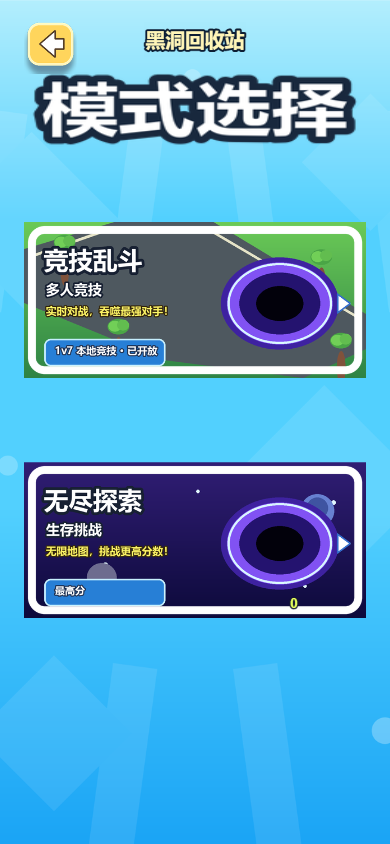
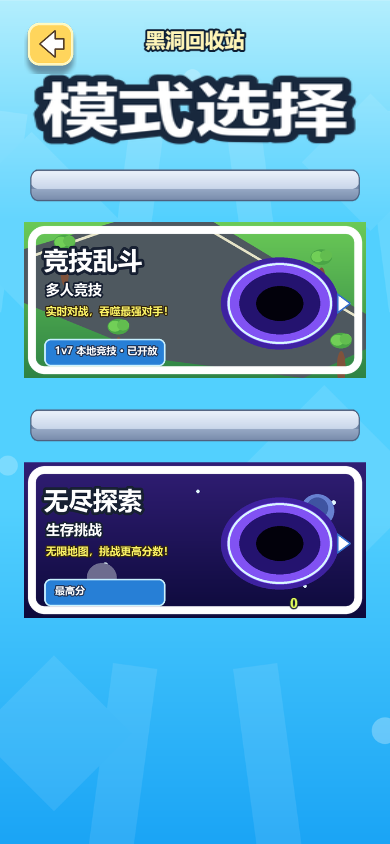
fix(mode): give the mode cards the plinth the reference shows under them
The adopted Mode Select reference puts a thick 3D plinth under every card, and it
is the most distinctive structural element of that layout. This build had none --
but not because nobody built it. `ShelfArena` and `ShelfEndless` are authored,
positioned under the cards, active, and pinned by MODE_SELECT_LAYOUT; they were
hidden at runtime because `mode_card_shelf.png` was a blank white capsule with no
9-slice borders, and two floating white bars are what the V6 brief forbids by name
("empty sprite bar", "placeholder rectangle"). Sampling the old sprite confirms it:
a transparent capsule with a (233,241,255) middle and a soft shadow.

So the fix is to author the art, not to re-enable a placeholder.
`art-source/vector/generate_card_plinth.py` draws a real plinth at the same path --
a light top face over a distinctly darker front face, rounded ends, an outline --
so the scene's spriteFrame reference keeps resolving, and
`mode_card_shelf.png.meta` now carries 16 px horizontal 9-slice borders and
`packable: false`. The controller no longer hides the shelves.

Showing it again needed two corrections, both found by measuring rather than by
trusting the table:

  * Width: authored 600 design px against a ~576 design px visible width, it
    overflowed by 2.8 screen px per side. It is now narrowed to the fitted card
    width less a small inset -- width only, because a slab's thickness must not
    scale with it.
[…]

Changed region(s): [[0.0615, 0.1848, 0.9231, 0.2464], [0.0615, 0.4621, 0.9231, 0.5237]]

diff --git a/cocos/assets/scripts/ui/ModeSelectPageController.ts b/cocos/assets/scripts/ui/ModeSelectPageController.ts
@@ -33,6 +33,13 @@ export const MODE_SELECT_LAYOUT = {
 
 /** The two playable mode cards, which are wider than a 20:9 frame can show. */
 const MODE_CARD_NODES: readonly (keyof typeof MODE_SELECT_LAYOUT)[] = ['BtnArena', 'BtnEndless'];
+/** Decorative plinths: [shelf, the card it belongs under]. */
+const MODE_SHELF_PAIRS: readonly (readonly [keyof typeof MODE_SELECT_LAYOUT, keyof typeof MODE_SELECT_LAYOUT])[] = [
+  ['ShelfArena', 'BtnArena'],
+  ['ShelfEndless', 'BtnEndless'],
+];
+/** How far the card's bottom edge sits down over the plinth, in design px. */
+const PLINTH_OVERLAP = 10;
 
 @ccclass('ModeSelectPageController')
 export class ModeSelectPageController extends Component {
@@ -93,6 +100,29 @@ export class ModeSelectPageController extends Component {
     for (const cardName of MODE_CARD_NODES) {
       const [width, height, x] = MODE_SELECT_LAYOUT[cardName];
       fitNodeIntoSafeSpan(this.findNode(cardName), x, width, height, safeHalfWidth);
+    }
+
+    // The plinth is authored 600 design px against the same ~576 design px visible
+    // width, so on its own it overflows the frame by about 2.8 screen px per side.
+    // Narrow it to the card it sits under, less a small inset: the reference shows
+    // a plinth slightly narrower than its card, and this keeps it inside the frame
+    // at every aspect. Width only -- a slab's thickness must not scale with it.
+    // Positioned from the card rather than from MODE_SELECT_LAYOUT: measured at
+    // runtime, the authored shelf y put the plinth *above* its card (screen y
+    // 168.8 against the card's 222.1) when the reference clearly has the card
+    // sitting on the shelf. Deriving it here cannot drift from the card again.
+    for (const [shelfName, cardName] of MODE_SHELF_PAIRS) {
+      const card = this.findNode(cardName);
+      const shelf = this.findNode(shelfName);
+      const cardTransform = card?.getComponent(UITransform);
+      const shelfTransform = shelf?.getComponent(UITransform);
+      if (!card || !shelf || !cardTransform || !shelfTransform) continue;
+      shelfTransform.setContentSize(cardTransform.width - 16, shelfTransform.height);
+      shelf.setPosition(
+        0,
+        card.position.y - cardTransform.height / 2 - shelfTransform.height / 2 + PLINTH_OVERLAP,
+        0,
+      );
     }
   }
 
@@ -164,18 +194,15 @@ export class ModeSelectPageController extends Component {
     // exists to display, so the blue badge strip must not appear on the mode card.
     const availBadge = this.findNode('ArenaAvailability');
     if (availBadge) availBadge.active = false;
-    // ShelfArena / ShelfEndless carry mode_card_shelf.png, which is an empty
-    // white capsule bar with no content of its own. In the portrait frame they
-    // read as two blank white sprite bars floating between the title and the
-    // mode cards, which the V6 brief forbids by name ("empty sprite bar",
-    // "placeholder rectangle"). The mode cards already frame themselves, so the
-    // decorative shelves are pure residue. They stay in MODE_SELECT_LAYOUT so
-    // the layout contract keeps asserting their authored geometry; only their
-    // visibility is suppressed here.
-    for (const emptyShelf of ['ShelfArena', 'ShelfEndless']) {
-      const shelf = this.findNode(emptyShelf);
-      if (shelf) shelf.active = false;
-    }
+    // ShelfArena / ShelfEndless were hidden because `mode_card_shelf.png` was a
+    // blank white capsule with no 9-slice borders, and two floating white bars are
+    // what the V6 brief forbids by name ("empty sprite bar", "placeholder
+    // rectangle"). The placeholder has since been replaced with real plinth art --
+    // a light top face over a darker front face, drawn by
+    // `art-source/vector/generate_card_plinth.py` -- which is the element the
+    // adopted Mode Select reference puts under every card. So the shelves are
+    // shown again, and `mode_card_shelf.png.meta` now carries 16 px horizontal
+    // 9-slice borders so a stretched card keeps square ends.
   }
 }
 

diff --git a/art-source/vector/generate_card_plinth.py b/art-source/vector/generate_card_plinth.py
@@ -1,0 +1,95 @@
+"""Author the mode-card plinth that the adopted reference shows under each card.
+
+`textures/home/mode_card_shelf.png` was a blank white capsule with a soft shadow
+and no 9-slice borders. `ModeSelectPageController` hides both shelf nodes because
+that placeholder read as two floating white bars, which the V6 brief forbids by
+name ("empty sprite bar", "placeholder rectangle"). The reference
+(`v2-02-mode-select.png`) puts a real 3D plinth under every card, and it is the
+most distinctive structural element of that layout.
+
+So the placeholder is replaced with real art at the same path: the scene's
+spriteFrame reference keeps resolving, and the shelves can be shown again.
+
+The shape is a light top face, a distinctly darker front face for the slab's
+thickness, and a contact shadow under it. Drawn at 600x52 -- the authored node
+size -- with 9-slice borders so a stretched card keeps square ends.
+
+Run: python art-source/vector/generate_card_plinth.py
+"""
+import os
+
+from PIL import Image, ImageDraw
+
+REPO = os.path.dirname(os.path.dirname(os.path.dirname(os.path.abspath(__file__))))
+TARGET = os.path.join(REPO, 'cocos', 'assets', 'textures', 'home', 'mode_card_shelf.png')
+
+W, H = 600, 52
+SS = 4  # supersample, then downscale
+
+TOP_FACE_HI = (238, 244, 252)
+TOP_FACE_LO = (200, 213, 233)
+FRONT_FACE_HI = (150, 168, 196)
+FRONT_FACE_LO = (118, 138, 170)
+OUTLINE = (74, 90, 120)
+SHADOW = (38, 50, 76, 96)
+
+END_RADIUS = 14
+TOP_FACE_BOTTOM = 30
+FRONT_FACE_BOTTOM = 48
+
+
+def rounded(draw, box, radius, fill):
+    draw.rounded_rectangle(box, radius=radius, fill=fill)
+
+
+def main():
+    w, h = W * SS, H * SS
+    image = Image.new('RGBA', (w, h), (0, 0, 0, 0))
+    draw = ImageDraw.Draw(image)
+
+    inset = 2 * SS
+    # Contact shadow, offset down so the slab reads as sitting on the field.
+    rounded(draw, (inset, 6 * SS, w - inset, h - 1 * SS), END_RADIUS * SS, SHADOW)
+
+    # The slab itself: top face, then the darker front face below it.
+    rounded(draw, (inset, 1 * SS, w - inset, TOP_FACE_BOTTOM * SS), END_RADIUS * SS, TOP_FACE_LO)
+    rounded(draw, (inset, 1 * SS, w - inset, FRONT_FACE_BOTTOM * SS), END_RADIUS * SS, FRONT_FACE_LO)
+
+    # Vertical ramps, clipped to each face by drawing into a mask.
+    for box, top, bottom in (
+        ((inset, 1 * SS, w - inset, TOP_FACE_BOTTOM * SS), TOP_FACE_HI, TOP_FACE_LO),
+        ((inset, TOP_FACE_BOTTOM * SS, w - inset, FRONT_FACE_BOTTOM * SS), FRONT_FACE_HI, FRONT_FACE_LO),
+    ):
+        x0, y0, x1, y1 = box
+        height = max(1, y1 - y0)
+        band = Image.new('RGBA', (x1 - x0, height))
+        band_draw = ImageDraw.Draw(band)
+        for y in range(height):
+            t = y / max(1, height - 1)
+            colour = tuple(round(top[i] + (bottom[i] - top[i]) * t) for i in range(3)) + (255,)
+            band_draw.line([(0, y), (x1 - x0, y)], fill=colour)
+        mask = Image.new('L', (x1 - x0, height), 0)
+        ImageDraw.Draw(mask).rounded_rectangle(
+            (0, 0, x1 - x0 - 1, height - 1),
+            radius=END_RADIUS * SS if y1 == TOP_FACE_BOTTOM * SS else 0,
+            fill=255)
+        image.paste(band, (x0, y0), mask)
+
+    # Re-clip the front face to the slab's rounded outline so it cannot square the ends.
+    slab = Image.new('L', (w, h), 0)
+    ImageDraw.Draw(slab).rounded_rectangle(
+        (inset, 1 * SS, w - inset, FRONT_FACE_BOTTOM * SS), radius=END_RADIUS * SS, fill=255)
+    image.putalpha(Image.composite(image.getchannel('A'), Image.new('L', (w, h), 0), slab))
+
+    # Outline last, so it sits over both faces.
+    draw.rounded_rectangle(
+        (inset, 1 * SS, w - inset, FRONT_FACE_BOTTOM * SS),
+        radius=END_RADIUS * SS, outline=OUTLINE, width=2 * SS)
+
+    image = image.resize((W, H), Image.LANCZOS)
+    image.save(TARGET)
+    print(f'wrote {os.path.relpath(TARGET, REPO)} ({W}x{H})')
+
+
+if __name__ == '__main__':
+    main()

diff --git a/cocos/docs/UI_VISUAL_REAUDIT.md b/cocos/docs/UI_VISUAL_REAUDIT.md
@@ -26,16 +26,59 @@ Reference `v2-02-mode-select.png` vs shipped `mode-390x844.png`.
 | Title | huge white outlined display type, centred | same treatment, centred | **matches** |
 | Back button | yellow rounded square, top-left | present, same treatment | **matches** |
 | Session pill | dark pill with a lightning icon, a count and a `00:38` timer | **absent** | **difference** |
-| Card frame | white outer frame **plus a thick 3D plinth/shelf under each card** | white frame only, cards sit flat on the field | **difference — the reference's most distinctive structural element** |
+| Card frame | white outer frame **plus a thick 3D plinth/shelf under each card** | white frame only, cards sat flat on the field | **difference — FIXED, see below** |
 | Card interior | fully illustrated scene: roads, trees, cars, buildings / planets / machines / trophy | a road strip, a grass band and a flat vortex | **difference — much sparser than the reference** |
 | Card title / subtitle / sell line / badge | white outlined title, subtitle, yellow sell line, blue badge pill bottom-left | all present with the same hierarchy | **matches** |
 | Black-hole art in the card | vivid purple-blue swirl with a bright rim, large and prominent | flat purple ellipse with a thin white ring | **difference — noticeably flatter** |
 | Locked-card treatment | padlock over the interior | not applicable (this product has two real modes, no locked legacy cards) | correct per the canon's forbidden list |
 
-Three real differences, in descending order of visual impact: **the missing card
-plinth**, **the sparse card interiors**, and **the flat vortex art**. The session
-pill is the smallest and is arguably a product decision (this game has no timed
-session or energy), so it is listed rather than queued.
+### The plinth: my first read of it was wrong, and the truth was better
+
+I first wrote this up as "the plinth is missing". It is not. `ShelfArena` and
+`ShelfEndless` are authored in the scene, positioned under each card, active, and
+referenced by `MODE_SELECT_LAYOUT` so the layout contract keeps asserting their
+geometry. They were **hidden at runtime on purpose**, and the reason is in the
+controller:
+
+> `mode_card_shelf.png` … is an empty white capsule bar with no content of its own.
+> In the portrait frame they read as two blank white sprite bars floating between
+> the title and the mode cards, which the V6 brief forbids by name ("empty sprite
+> bar", "placeholder rectangle").
+
+So the real finding is not "a missing element" but **a placeholder that was
+correctly suppressed** — and the fix is therefore to author the art, not to
+re-enable a blank bar. Sampling the old sprite confirms the description: a
+transparent capsule with a `(233,241,255)` middle and a soft shadow, no 9-slice
+borders.
+
+**Fixed.** `art-source/vector/generate_card_plinth.py` draws a real plinth at the
+same path — a light top face over a distinctly darker front face, rounded ends and
+an outline — so the scene's spriteFrame reference keeps resolving and the shelves
+can be shown again. `mode_card_shelf.png.meta` now carries 16 px horizontal 9-slice
+borders and `packable: false`.
+
+Showing it again needed two corrections, both found by measuring rather than by
+trusting the table:
+
+1. **Width.** The plinth is authored 600 design px against a ~576 design px visible
+   width, so it overflowed the frame by 2.8 screen px per side. The controller now
+   narrows it to the fitted card width less a small inset — the reference shows a
+   plinth slightly narrower than its card — **width only, because a slab's thickness
+   must not scale with it**. Measured: `ShelfArena` 502.7 design px inside
+   `BtnArena`'s 518.7.
+2. **Position.** With the authored y it rendered *above* its card — screen y 168.8
+   against the card's 222.1 — where the reference clearly has the card sitting on
+   the shelf. The shelf's y is now derived from the card it belongs to
+   (`card.y - cardHeight/2 - shelfHeight/2 + 10`), which cannot drift from the card
+   again. Measured after: `ShelfArena` 371.4..405.6 under `BtnArena`'s 222.1..377.9,
+   **zero clipped nodes** at 390x844.
+
+Verified by looking at the rendered page, not only by the numbers: the slab now
+reads as a plinth under each card with its card resting on it.
+
+Three real differences remain, in descending order of visual impact: **the sparse
+card interiors**, **the flat vortex art**, and the session pill (arguably a product
+decision — this game has no timed session or energy, so it is listed, not queued).
 
 ## Other pages
 
